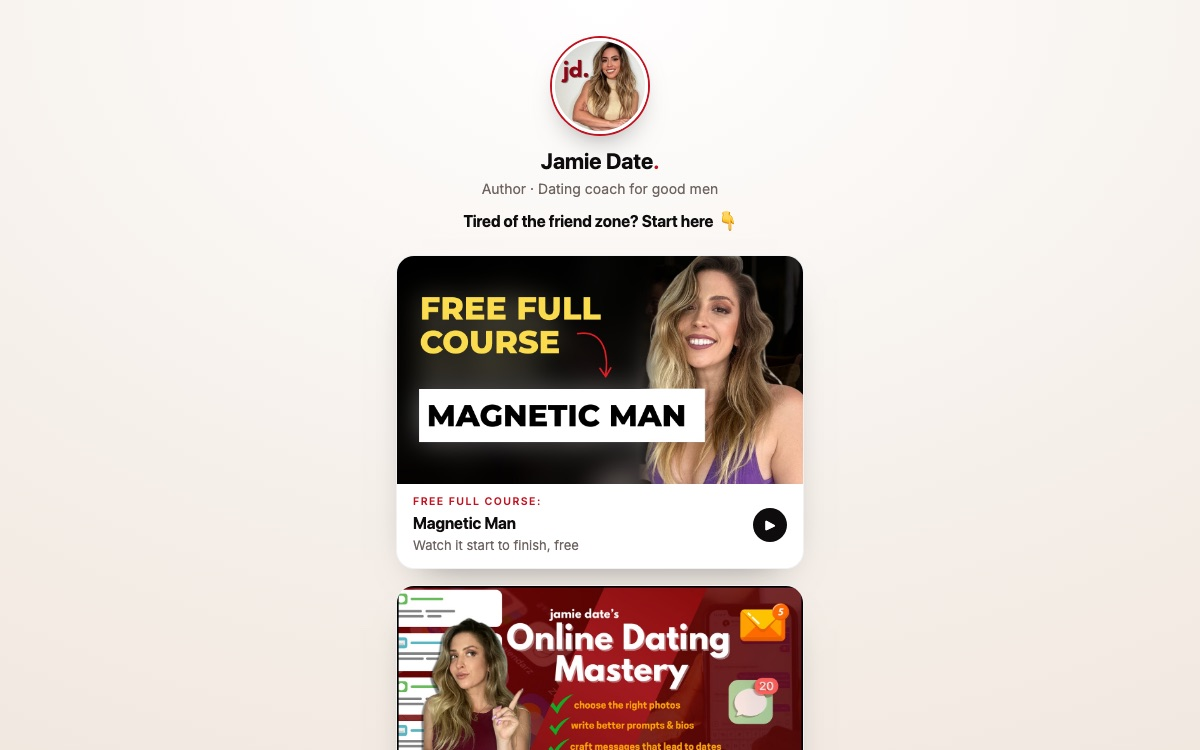
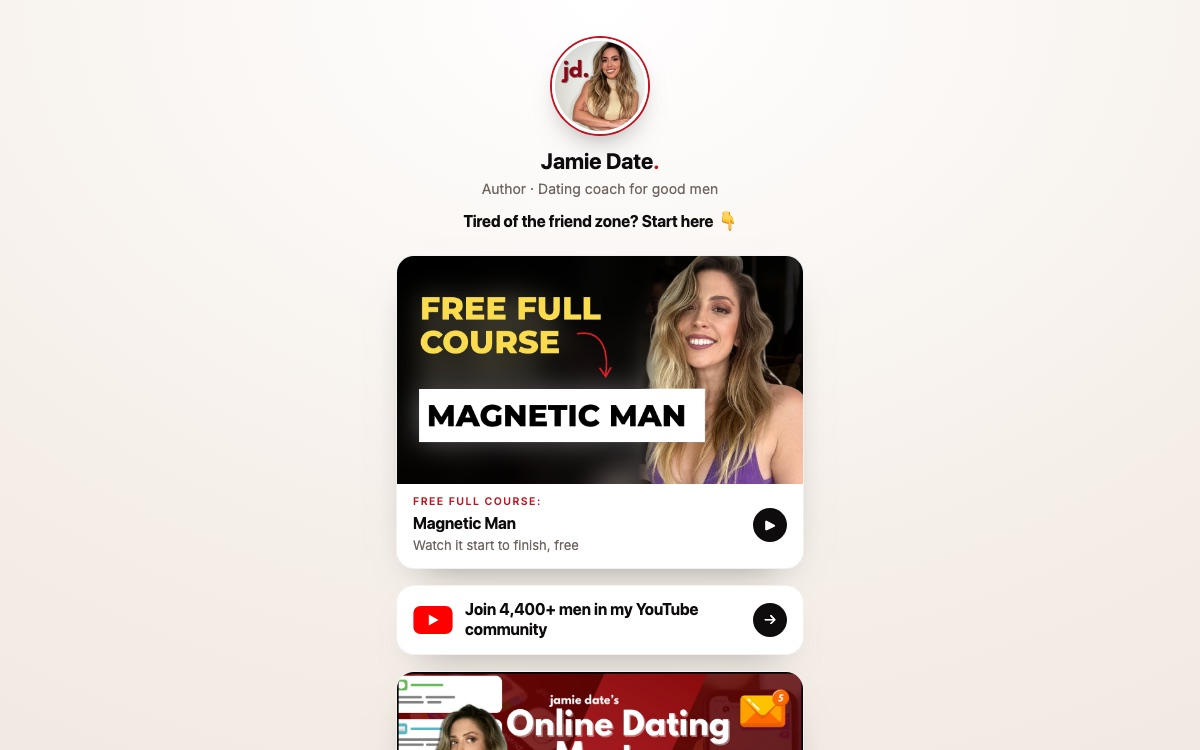
YouTube points on hub, two links under every video, YouTube community card on link page

Changed region(s): [[0.3083, 0.7667, 0.6783, 1.0]]

diff --git a/index.html b/index.html
@@ -132,16 +132,16 @@
       <div class="container">
         <div class="bridge__head">
           <p class="eyebrow reveal">Before the deliverables</p>
-          <h2 class="section__title bridge__title reveal">Four overlooked things I noticed<br />before I built anything.</h2>
+          <h2 class="section__title bridge__title reveal">Five overlooked things I noticed<br />before I built anything.</h2>
         </div>
 
         <article class="beat reveal">
           <div class="beat__num"><span class="beat__idx">01</span><span class="beat__rule"></span></div>
           <div class="beat__copy">
-            <p class="beat__kicker">Your link in bio</p>
-            <h3 class="beat__title">Six links, but never one clear next step.</h3>
-            <p class="beat__text">Your Linktree opens with a strong line, &ldquo;Stop going to bed alone&rdquo;, and then gives a new follower six choices: a retreat, coaching, a free guide, a profile audit, courses and your book. A man who just found you doesn&rsquo;t know which one is for him, so most tap nothing.</p>
-          </div><div class="beat__aside"><figure class="shot shot--wide"><img src="assets/img/her-profile.jpg" alt="Jamie&rsquo;s Instagram bio" loading="lazy" /><figcaption>Your bio today</figcaption></figure></div>
+            <p class="beat__kicker">Your two platforms</p>
+            <h3 class="beat__title">Most of your 174K followers don&rsquo;t know you&rsquo;re on YouTube.</h3>
+            <p class="beat__text">It&rsquo;s the other way around for you. You&rsquo;re big on Instagram, but nothing on your profile points to your YouTube. So I&rsquo;d send your Instagram there: the free course in your bio and on your link page opens on YouTube, and a card on your link page says &ldquo;Join 4,400+ men in my YouTube community&rdquo;. A mention in your Reels helps too. Every man who watches you for 30 minutes on YouTube is far warmer than one who saw a 30-second Reel.</p>
+          </div><div class="beat__aside"><figure class="shot shot--wide"><img src="assets/img/her-profile.jpg" alt="Jamie&rsquo;s Instagram bio" loading="lazy" /><figcaption>Your link in bio today</figcaption></figure></div>
         </article>
         <article class="beat reveal">
           <div class="beat__num"><span class="beat__idx">02</span><span class="beat__rule"></span></div>
@@ -154,20 +154,27 @@
         <article class="beat reveal">
           <div class="beat__num"><span class="beat__idx">03</span><span class="beat__rule"></span></div>
           <div class="beat__copy">
+            <p class="beat__kicker">Your links</p>
+            <h3 class="beat__title">The same two links under each one of your videos.</h3>
+            <p class="beat__text">Each of the six Becoming Boyfriend Material videos ends with one link, your Linktree, so there&rsquo;s no call to book and nothing free. I&rsquo;d put the same two links under every video. One invites the men who aren&rsquo;t ready yet to your free live class: the class and your emails then nurture them, and over time they trust you enough to book. The other is a direct link to book a call, for the men who are ready right now.</p>
+          </div><div class="beat__aside"><figure class="shot shot--wide"><img src="assets/img/bbm-thumb.jpg" alt="Becoming Boyfriend Material thumbnail" loading="lazy" /><figcaption>Your channel today</figcaption></figure></div>
+        </article>
+        <article class="beat reveal">
+          <div class="beat__num"><span class="beat__idx">04</span><span class="beat__rule"></span></div>
+          <div class="beat__copy">
+            <p class="beat__kicker">Your link in bio</p>
+            <h3 class="beat__title">Six links, but never one clear next step.</h3>
+            <p class="beat__text">Your Linktree opens with a strong line, &ldquo;Stop going to bed alone&rdquo;, and then gives a new follower six choices: a retreat, coaching, a free guide, a profile audit, courses and your book. A man who just found you doesn&rsquo;t know which one is for him, so most tap nothing.</p>
+          </div>
+        </article>
+        <article class="beat reveal">
+          <div class="beat__num"><span class="beat__idx">05</span><span class="beat__rule"></span></div>
+          <div class="beat__copy">
             <p class="beat__kicker">Your proof</p>
             <h3 class="beat__title">Your strongest proof is hidden where most men never look.</h3>
             <p class="beat__text">JP getting second and third dates within weeks, Matthew back out there after his divorce at 59, Anthony saying dating apps went from frustrating to predictable. It all sits on one coaching page, and your Inside the Female Mind class lives in an old highlight.</p>
           </div>
         </article>
-        <article class="beat reveal">
-          <div class="beat__num"><span class="beat__idx">04</span><span class="beat__rule"></span></div>
-          <div class="beat__copy">
-            <p class="beat__kicker">YouTube</p>
-            <h3 class="beat__title">Your YouTube videos can fill your live class.</h3>
-            <p class="beat__text">You teach men on YouTube every week, and every one of those viewers is a man who could sit in your free class. One line at the top of every description, and one at the end of every video, gives all of them the same simple path: the free live class first, then a call.</p>
-          </div><div class="beat__aside"><figure class="shot shot--wide"><img src="assets/img/bbm-thumb.jpg" alt="Becoming Boyfriend Material thumbnail" loading="lazy" /><figcaption>Your channel today</figcaption></figure></div>
-        </article>
-
         <div class="bridge__close reveal">
           <p class="bridge__closing">So I built <span class="hl">one free class</span> that does the selling: a <u class="ul">100-slide presentation</u> on the 3 psychological feelings that make women feel deep, primal attraction, a three-page funnel around it, a profile and pinned post that send men to it, and a YouTube flywheel that keeps them coming, until they <span class="hl-bg">see if they qualify</span> for a call with you or your team.</p>
           <a class="btn btn--primary" href="#deliverables">See what&rsquo;s built <span class="arrow-down" aria-hidden="true"></span></a>
@@ -191,9 +198,9 @@
               <span class="thumb"><span class="thumb__bar"><i></i><i></i><i></i><span class="thumb__url">100 slides · click to advance</span></span><img class="thumb__img" src="assets/img/webinar-preview.jpg?v=5" alt="Your proven webinar presentation preview" loading="lazy" /></span>
               <span class="pcard__body"><span><span class="pcard__kicker">Free live class · 100 slides</span><span class="pcard__title">Your proven webinar presentation</span><span class="pcard__desc">The 3 Psychological Feelings That Make Women Feel Deep, Primal Attraction. Your story, the 3 feelings, real client words, then Relationship Renaissance 90 and &ldquo;See if you qualify&rdquo;.</span></span><span class="pcard__link">Open preview <span class="arrow" aria-hidden="true"></span></span></span>
             </button>
-            <button class="pcard reveal" data-title="Your simple YouTube flywheel" data-embed="youtube-flywheel/?v=5">
-              <span class="thumb"><span class="thumb__bar"><i></i><i></i><i></i><span class="thumb__url">your free full course</span></span><img class="thumb__img" src="assets/img/flywheel-preview.jpg?v=5" alt="Your simple YouTube flywheel preview" loading="lazy" /></span>
-              <span class="pcard__body"><span><span class="pcard__kicker">Free full course on YouTube</span><span class="pcard__title">Your simple YouTube flywheel</span><span class="pcard__desc">A suggestion next to your series: one free full course, Magnetic Man, with the three lines under every video that send men to your live class.</span></span><span class="pcard__link">Open preview <span class="arrow" aria-hidden="true"></span></span></span>
+            <button class="pcard reveal" data-title="Your simple YouTube flywheel" data-embed="youtube-flywheel/?v=10">
+              <span class="thumb"><span class="thumb__bar"><i></i><i></i><i></i><span class="thumb__url">your free full course</span></span><img class="thumb__img" src="assets/img/flywheel-preview.jpg?v=10" alt="Your simple YouTube flywheel preview" loading="lazy" /></span>
+              <span class="pcard__body"><span><span class="pcard__kicker">Free full course on YouTube</span><span class="pcard__title">Your simple YouTube flywheel</span><span class="pcard__desc">A suggestion next to your series: one free full course, Magnetic Man, with the same two links under every video that send men to your live class.</span></span><span class="pcard__link">Open preview <span class="arrow" aria-hidden="true"></span></span></span>
             </button>
           </div>
         </div>
@@ -226,16 +233,16 @@
             <span class="group__rule"></span>
           </div>
           <div class="grid grid--3">
-            <button class="pcard reveal" data-title="Your profile, finally upgraded" data-embed="ig-profile/?v=9">
-              <span class="thumb"><span class="thumb__bar"><i></i><i></i><i></i><span class="thumb__url">today vs upgraded</span></span><img class="thumb__img" src="assets/img/igprofile-preview.jpg?v=9" alt="Your profile, finally upgraded preview" loading="lazy" /></span>
+            <button class="pcard reveal" data-title="Your profile, finally upgraded" data-embed="ig-profile/?v=10">
+              <span class="thumb"><span class="thumb__bar"><i></i><i></i><i></i><span class="thumb__url">today vs upgraded</span></span><img class="thumb__img" src="assets/img/igprofile-preview.jpg?v=10" alt="Your profile, finally upgraded preview" loading="lazy" /></span>
               <span class="pcard__body"><span><span class="pcard__kicker">The first thing they see</span><span class="pcard__title">Your profile, finally upgraded</span><span class="pcard__desc">A bio that says the result, shows your proof and sends men to one free class, plus a DM version and new highlight covers.</span></span><span class="pcard__link">Open preview <span class="arrow" aria-hidden="true"></span></span></span>
             </button>
             <button class="pcard reveal" data-title="Your proven pinned post" data-embed="pinned-post/?v=5" data-noanim>
               <span class="thumb"><span class="thumb__bar"><i></i><i></i><i></i><span class="thumb__url">instagram.com/jamiedate</span></span><img class="thumb__img" src="assets/img/pinned-preview.jpg?v=5" alt="Your proven pinned post preview" loading="lazy" /></span>
               <span class="pcard__body"><span><span class="pcard__kicker">Pinned carousel · 6 slides</span><span class="pcard__title">Your proven pinned post</span><span class="pcard__desc">Sixteen lessons from your 5 years as a professional catfish, in the most-liked text format in men&rsquo;s dating, ending with &ldquo;Comment the word BOYFRIEND&rdquo;.</span></span><span class="pcard__link">Open preview <span class="arrow" aria-hidden="true"></span></span></span>
             </button>
-            <button class="pcard reveal" data-title="Your link page" data-embed="link-in-bio/?v=8">
-              <span class="thumb"><span class="thumb__bar"><i></i><i></i><i></i><span class="thumb__url">linktr.ee/jamiedate</span></span><img class="thumb__img" src="assets/img/linkpage-preview.jpg?v=8" alt="Your link page preview" loading="lazy" /></span>
+            <button class="pcard reveal" data-title="Your link page" data-embed="link-in-bio/?v=10">
+              <span class="thumb"><span class="thumb__bar"><i></i><i></i><i></i><span class="thumb__url">linktr.ee/jamiedate</span></span><img class="thumb__img" src="assets/img/linkpage-preview.jpg?v=10" alt="Your link page preview" loading="lazy" /></span>
               <span class="pcard__body"><span><span class="pcard__kicker">Link in bio · 3 links</span><span class="pcard__title">Your link page</span><span class="pcard__desc">Three links in the right order: free first, then Online Dating Mastery, then coaching with &ldquo;See if you qualify&rdquo;.</span></span><span class="pcard__link">Open preview <span class="arrow" aria-hidden="true"></span></span></span>
             </button>
           </div>

diff --git a/link-in-bio/index.html b/link-in-bio/index.html
@@ -29,6 +29,9 @@ h1 i{color:var(--red);font-style:normal}
 .lk b{display:block;font:700 16px/1.25 SFD,Inter,sans-serif}
 .lk span.s{display:block;font-size:13px;color:var(--muted);margin-top:3px}
 .go{flex:none;width:34px;height:34px;border-radius:50%;background:var(--ink);color:#fff;display:grid;place-items:center;font-size:15px}
+.lk--yt .b{padding:14px 16px}
+.yt-ic{flex:none;width:40px;height:40px;display:grid;place-items:center}
+.yt-ic svg{width:40px;height:28px}
 .lk--hot{background:var(--ink);color:#fff}
 .lk--hot span.s{color:#cfc5bd}.lk--hot small{color:#ff6b74}
 .lk--hot .go{background:var(--red)}
@@ -48,6 +51,10 @@ h1 i{color:var(--red);font-style:normal}
   <a class="lk" href="../youtube-flywheel/">
     <img src="../assets/img/flywheel-thumb.jpg?v=5" alt="Free full course">
     <span class="b"><span class="t"><small>Free full course:</small><b>Magnetic Man</b><span class="s">Watch it start to finish, free</span></span><span class="go">&#9654;</span></span>
+  </a>
+
+  <a class="lk lk--yt" href="https://www.youtube.com/@jamiedate" target="_blank" rel="noopener">
+    <span class="b"><span class="yt-ic"><svg viewBox="0 0 28 20" aria-hidden="true"><rect width="28" height="20" rx="5" fill="#ff0000"/><path d="M11 6v8l7-4z" fill="#fff"/></svg></span><span class="t"><b>Join 4,400+ men in my YouTube community</b></span><span class="go">&rarr;</span></span>
   </a>
 
   <a class="lk" href="#">

diff --git a/youtube-flywheel/index.html b/youtube-flywheel/index.html
@@ -96,15 +96,12 @@ h2{font:700 clamp(22px,3.6vw,28px)/1.15 SFD,Inter;margin:6px 0 14px;letter-spaci
 
   <article class="card">
     <span class="tag">Under every video</span>
-    <h2>The same three lines, every time</h2>
+    <h2>The same two links, under every video</h2>
     <div class="desc">&#128308; FREE LIVE CLASS: The 3 Psychological Feelings That Make Women Feel Deep, Primal Attraction <span class="ln">[your live class page]</span>
 
-&#127891; FREE FULL COURSE: Magnetic Man
-<span class="ln">[your full course video]</span>
-
-&#10024; Ready to stop getting friend-zoned? See if you qualify for coaching with me
-<span class="ln">[your application page]</span></div>
-    <p class="muted" style="margin-top:14px">Paste the same lines under every video, old and new. The live class always sits on the first line, because it&rsquo;s where men decide to work with you.</p>
+&#10024; Ready now? Book a call and see if you qualify for coaching with me
+<span class="ln">[your booking page]</span></div>
+    <p class="muted" style="margin-top:14px">Today each Becoming Boyfriend Material description has one link, your Linktree. Paste these two links under every video instead, old and new. The first is for the men who aren&rsquo;t ready yet: the live class and your emails warm them up until they book. The second is for the men who are ready right now.</p>
   </article>
 
   <article class="card">
